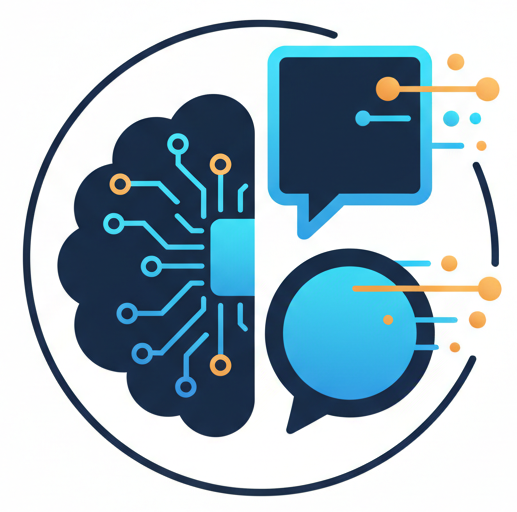
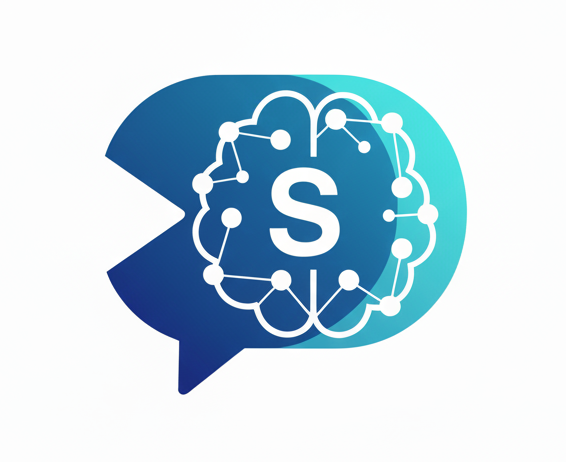
added facebook past post for styling inferance

diff --git a/src/app/layout.tsx b/src/app/layout.tsx
@@ -15,7 +15,6 @@ const geistMono = Geist_Mono({
 export const metadata: Metadata = {
   title: "SaMMy",
   description: "AI powered social media manager",
-  icons: "/sammy.svg",
 };
 
 export default function RootLayout({